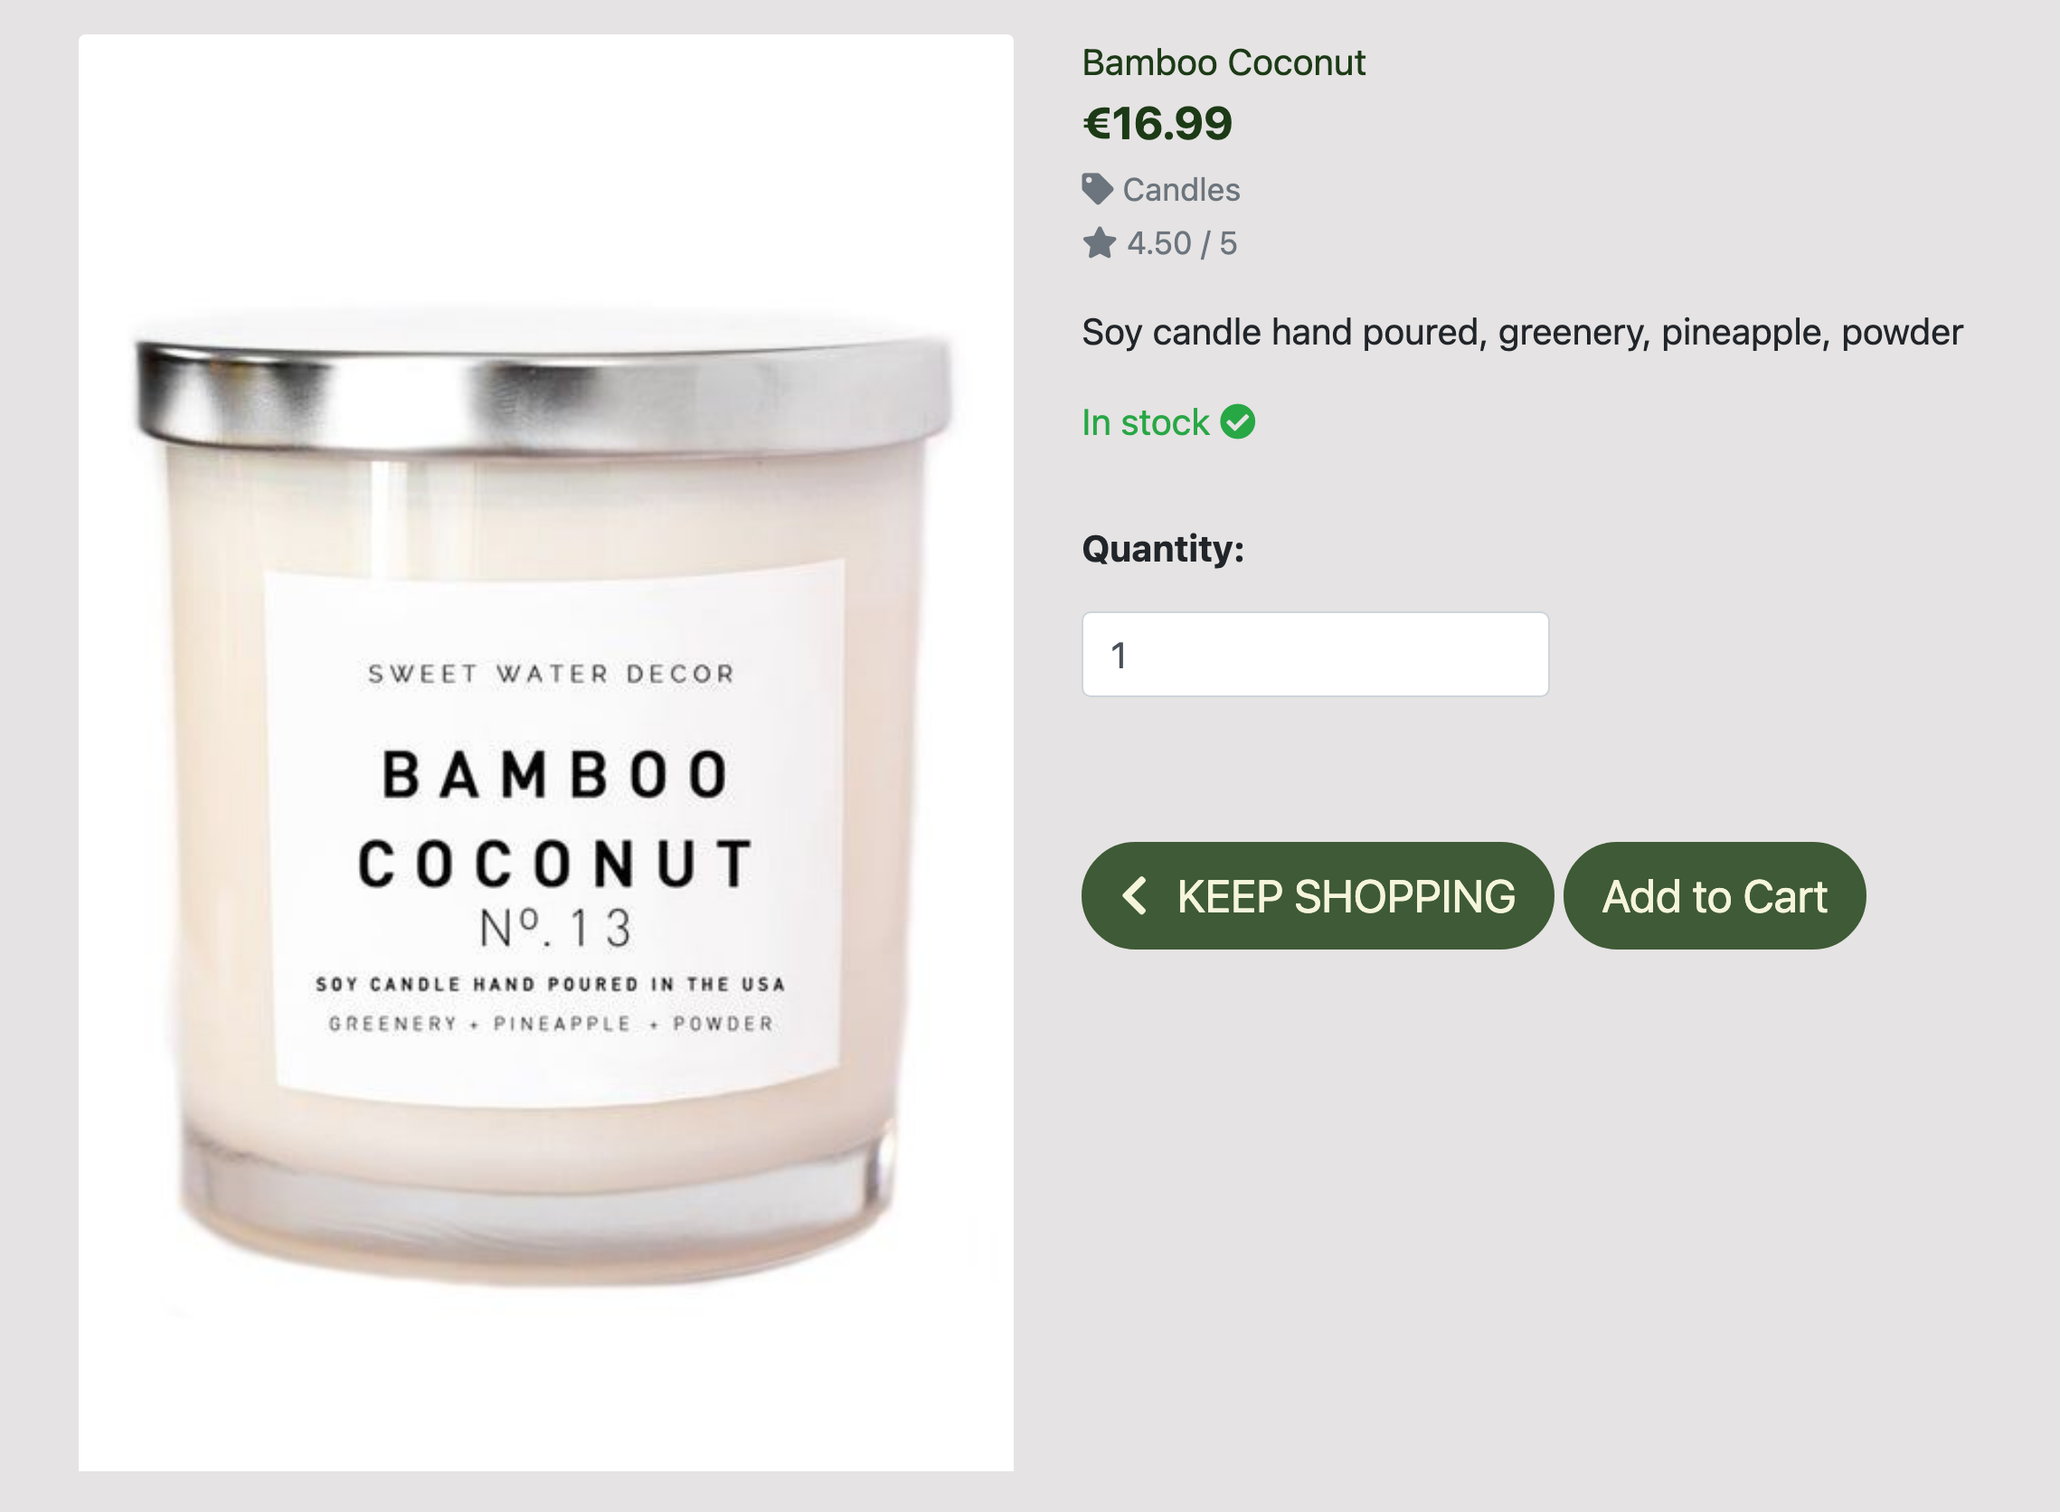
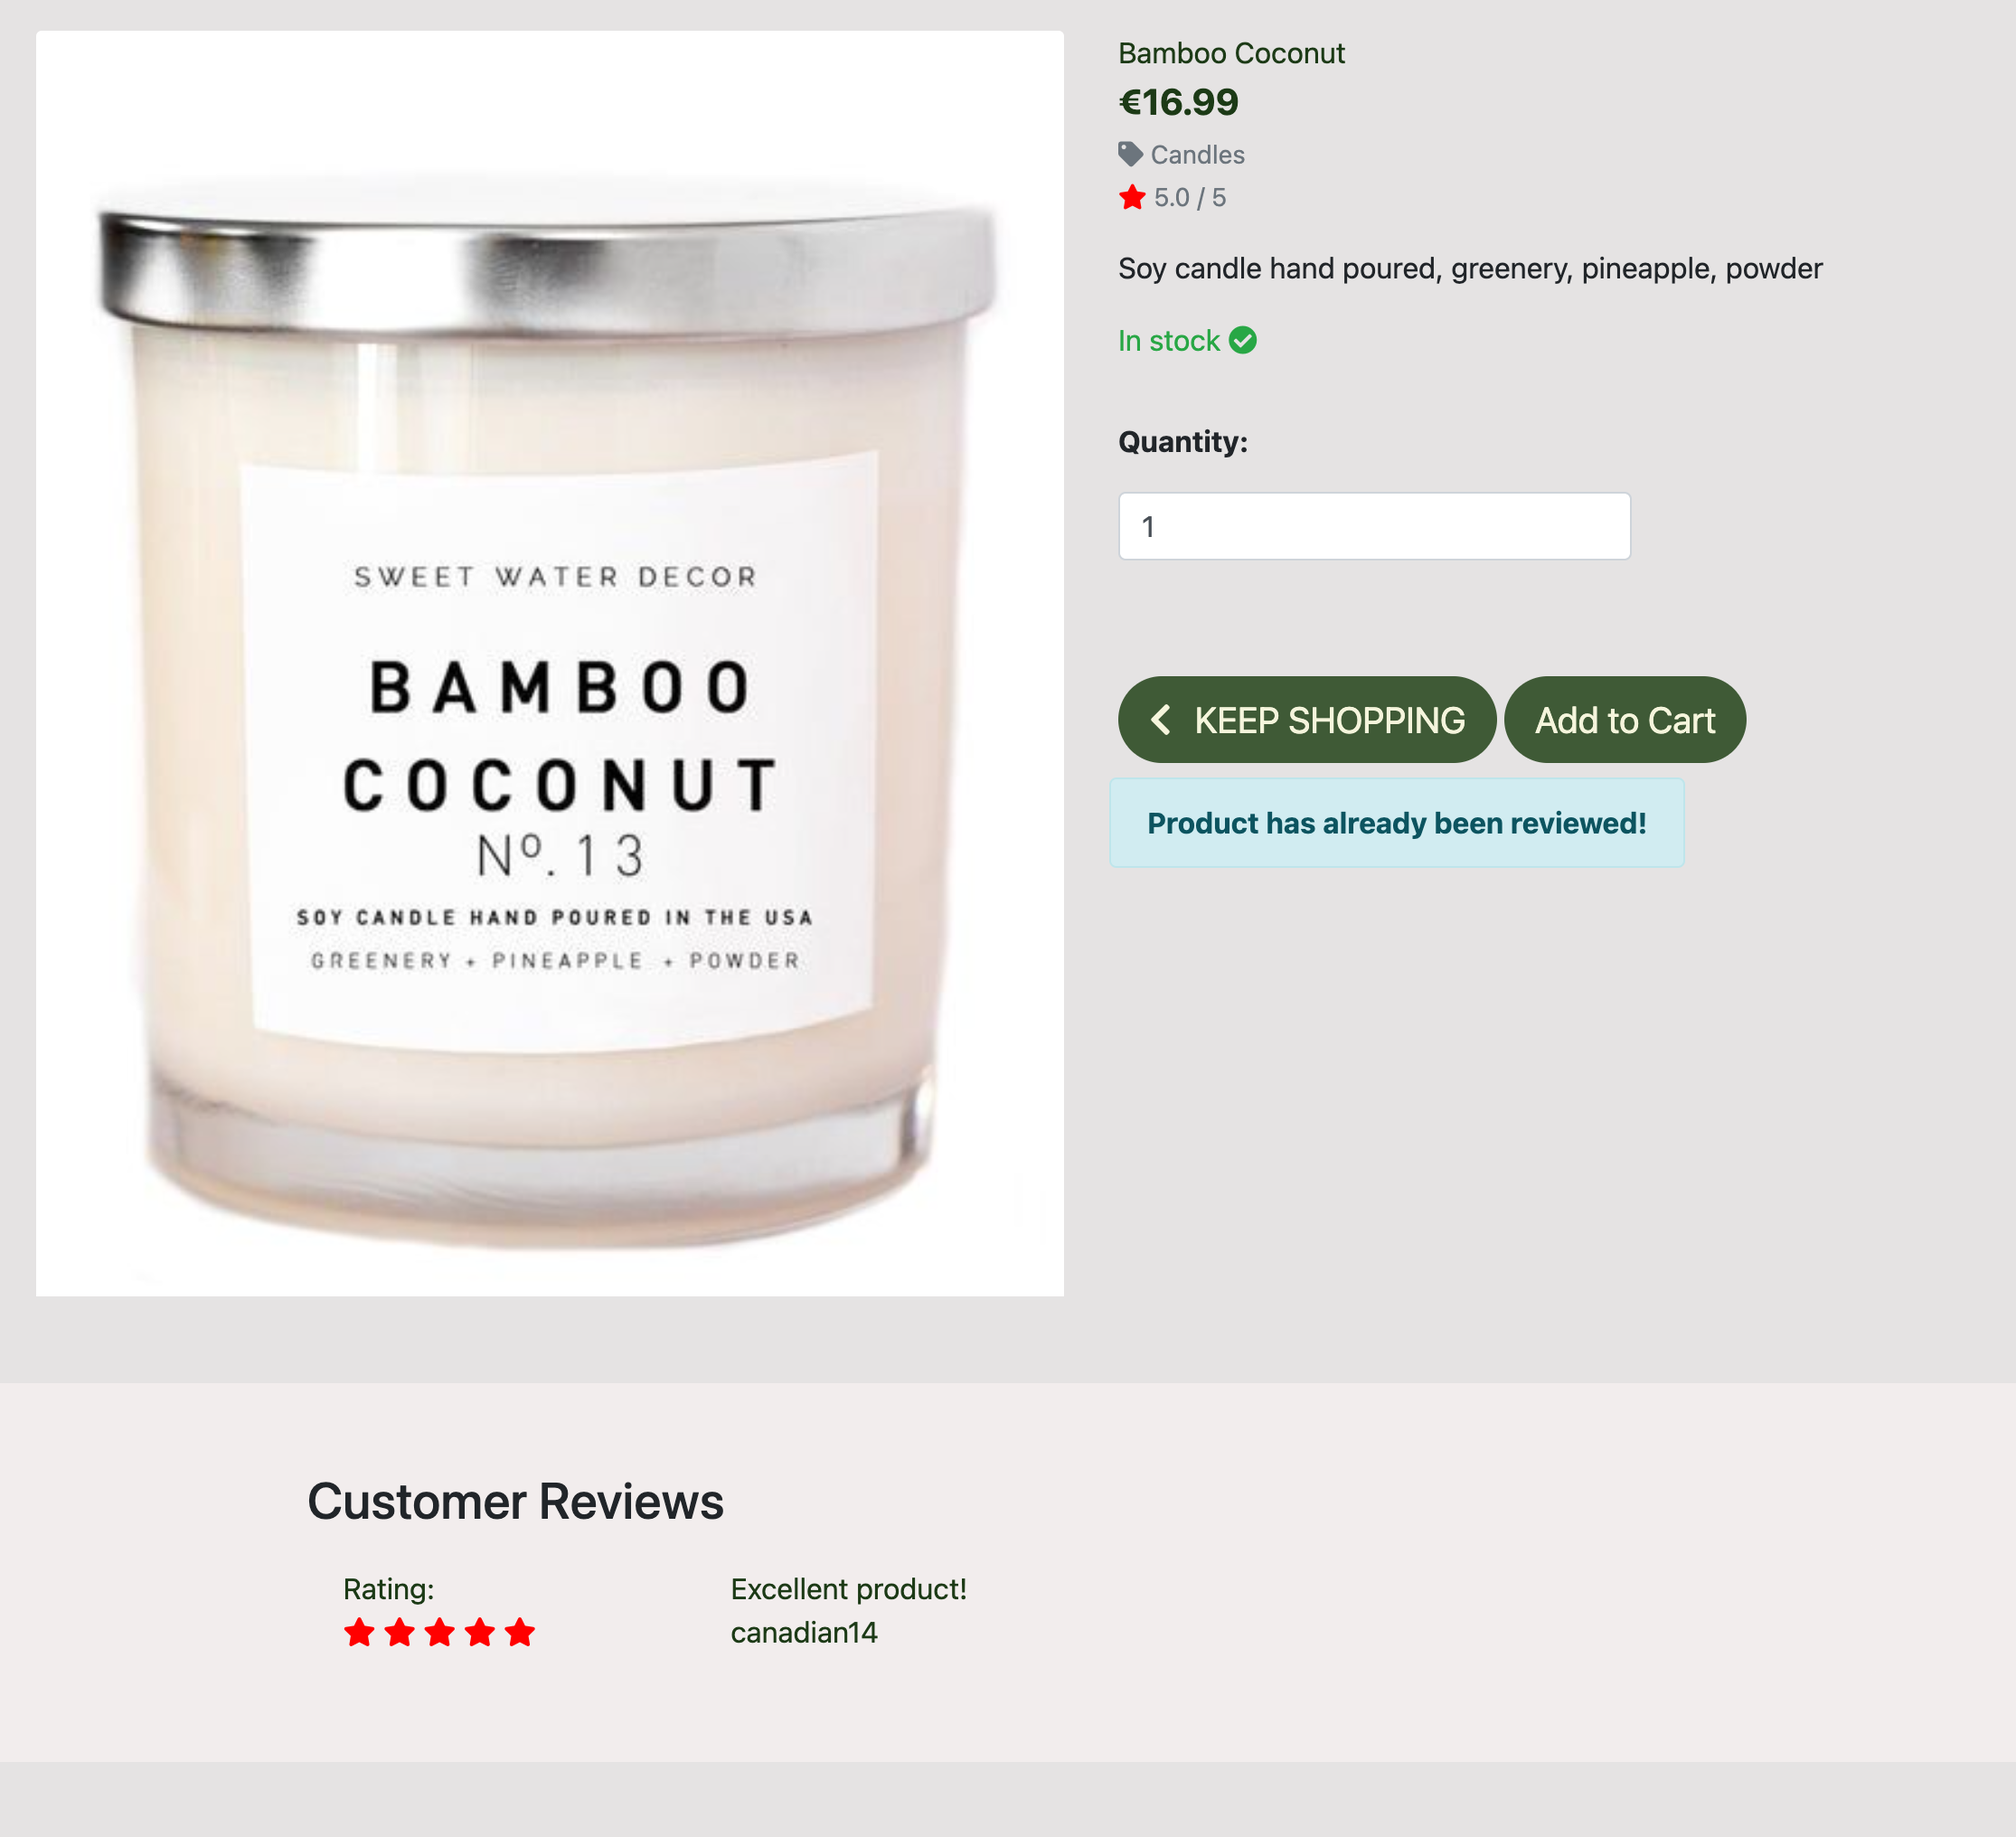
last changes

Changed region(s): [[0.0, 0.0, 0.9592, 0.9019], [0.0309, 0.933, 0.4951, 0.9952]]

diff --git a/products/templates/products/product_detail.html b/products/templates/products/product_detail.html
@@ -106,7 +106,7 @@
                                 <strong>Product has already been reviewed!</strong>
                             </div>
                         {% else %}
-                            <a href="{% url 'add_review' product_id=product.id %}" id="btn-review" class="btn btn-primary btn-lg rounded-pill mt-3">
+                            <a href="{% url 'add_review' product_id=product.id %}#review-form" id="btn-review" class="btn btn-primary btn-lg rounded-pill mt-3">
                                 <span class="icon">
                                     <i class="fas fa-pencil-alt mr-2"></i>
                                 </span>
@@ -148,7 +148,7 @@
                                     {% if user.is_authenticated and user.id == review.user.user.id %}
                                     <div class="col-12 col-md-3">
                                         <small class="ml-3 change_review">
-                                            <a href="{% url 'edit_review' review_id=review.id %}">Edit</a> |
+                                            <a href="{% url 'edit_review' review_id=review.id %}#review-form">Edit</a> |
                                             <a class="text-danger" href="{% url 'delete_review' review_id=review.id %}">Delete</a>
                                         </small>
                                     </div>

diff --git a/reviews/templates/reviews/add_review.html b/reviews/templates/reviews/add_review.html
@@ -46,15 +46,13 @@
     </div>
     <div class="row">
         
-        
-
         <section class="col-lg-4 offset-lg-2">
             <h4>{% if review %}Update{% else %}Add{% endif %} Review</h4>
             <hr>
             {% if reviewed %}
             <p>You have already reviewed this product.</p>
             {% else %}
-                <form action="{% if review %}{% url 'edit_review' review.id %}{% else %}{% url 'add_review' product.id %}{% endif %}" class="form-reviews" method="POST">
+                <form id="review-form" action="{% if review %}{% url 'edit_review' review.id %}{% else %}{% url 'add_review' product.id %}{% endif %}" class="form-reviews" method="POST">
                     {% csrf_token %}
                     {% for field in form  %}
                         {% if field.name == "rating" %}

diff --git a/static/js/reviews.js b/static/js/reviews.js
@@ -1,9 +1,12 @@
+/* jshint esversion: 6 */
+/* globals $:false */
+
 $('.star').click(function(e) {
     // Select all previous stars before the clicked star
-    prevStars = $(this).parent().prevAll('label').children();
+    let prevStars = $(this).parent().prevAll('label').children();
     
     // Select all stars within the same parent container
-    allStars = $(this).parent().parent().children('label').children();
+    let allStars = $(this).parent().parent().children('label').children();
     
     // Reset all stars to empty (far) stars
     allStars.removeClass('fas').addClass('far');

diff --git a/templates/base.html b/templates/base.html
@@ -194,7 +194,7 @@
             </div>
         </div>
     </footer>
-    <script src="{% static 'js/script.js' %}" type="text/javascript"></script>
+    <script src="{% static 'js/script.js' %}"></script>
     {% block extrajs %}
     {% endblock %}
 </body>

diff --git a/static/js/script.js b/static/js/script.js
@@ -17,7 +17,7 @@ if (window.location.pathname == "/") {
             map: map,
         });
     };
-    // initMap();
+    initMap();
 }
 $('a.navbar-custom-collapse').click(function () {
     $("#navbarNav").collapse('hide');

diff --git a/README.md b/README.md
@@ -58,11 +58,21 @@ Here the user can find all the products. There are two categories Candles and Ch
 
 ## Product Detail
 
-At this page the user can click the product that desire, the product details, the Quantity, the price and the description. Also has the choice to keep shopping or add to cart.Finally can see which products are in stock, out of stock and low in stock.
+At this page the user can click the product that desire, the product details, the Quantity, the price and the description. Also has the choice to keep shopping or add to cart.Finally can see which products are in stock, out of stock and low in stock. 
 
 ![in stock](/media/readme/product-in-stock.png)
 ![out of stock](/media/readme/product-out-of-stock.png)
-![low in stock](/media/readme/product-low-in-stock.png)
+![low in stock](/media/readme/product-low-stock.png)
+
+Also in this page we can see the reviews as well. Logged in users can add a review to a product they haven't reviewed yet. In this case an add review button is displayed, else a notification message that they have reviewed already this product. 
+Logged in users can also edit/delete their review for a product.
+![product reviews](/media/readme/product-details-reviews.png)
+
+## Reviews management
+For adding and editing reviews we have the following pages:
+![add review](/media/readme/add-review.png)
+![update review](/media/readme/update-review.png)
+
 
 ## Login page
 
@@ -160,6 +170,7 @@ As advised by tutors, I validated Code Institute Python linter, html validator, 
 ![css](/media/readme/validator-css.png)
 - JShint No errors were found when passing through the official validator
 ![js](/media/readme/validator-jshint.png)
+![js](/media/readme/validator-jshint-2.png)
 - Python No errors were found when passing through the official validator using pycodestyle. Due to pep8online.com still not being online,
   I used pycodestyle to check my python code. pycodestyle is a command line installed with pip. I ran the command "pycodestyle blog cart checkout customer_messages
   home noble_candles products profiles"
@@ -204,6 +215,9 @@ As advised by tutors, I validated Code Institute Python linter, html validator, 
 |&check;| The product details page shows the product description.
 |&check;| The product details page shows the product rating.
 |&check;| The product details page shows the product reviews.
+|&check;| The product details page shows the add product review for logged user.
+|&check;| The product details page shows the edit product review for logged user created the review.
+|&check;| The product details page shows the delete product review for logged user created the review.
 |&check;| The product details page shows the product quantity button.
 |&check;| The product details page shows the product add to cart button.
 |&check;| The product details page has a search bar for easiest navigation for the products.
@@ -361,7 +375,7 @@ As advised by tutors, I validated Code Institute Python linter, html validator, 
 
 ## Unfixed bugs
 
-- No bugs
+- In edit admin product the image is not displayed properly
 
 ## Unimplemented features
 
@@ -393,6 +407,9 @@ As advised by tutors, I validated Code Institute Python linter, html validator, 
 - Heroku will start building the app
 - The link to the app can be found at the top of the page by clicking "Open app"
 - The fully deployed project can be accessed at [here](https://noble-candles-9ccec49c6b91.herokuapp.com/)
+
+## Confirmation email
+Confirmation email sent example can be see ![here](/media/readme/confirmation-email.png)
 
 ## Flowchart
 
